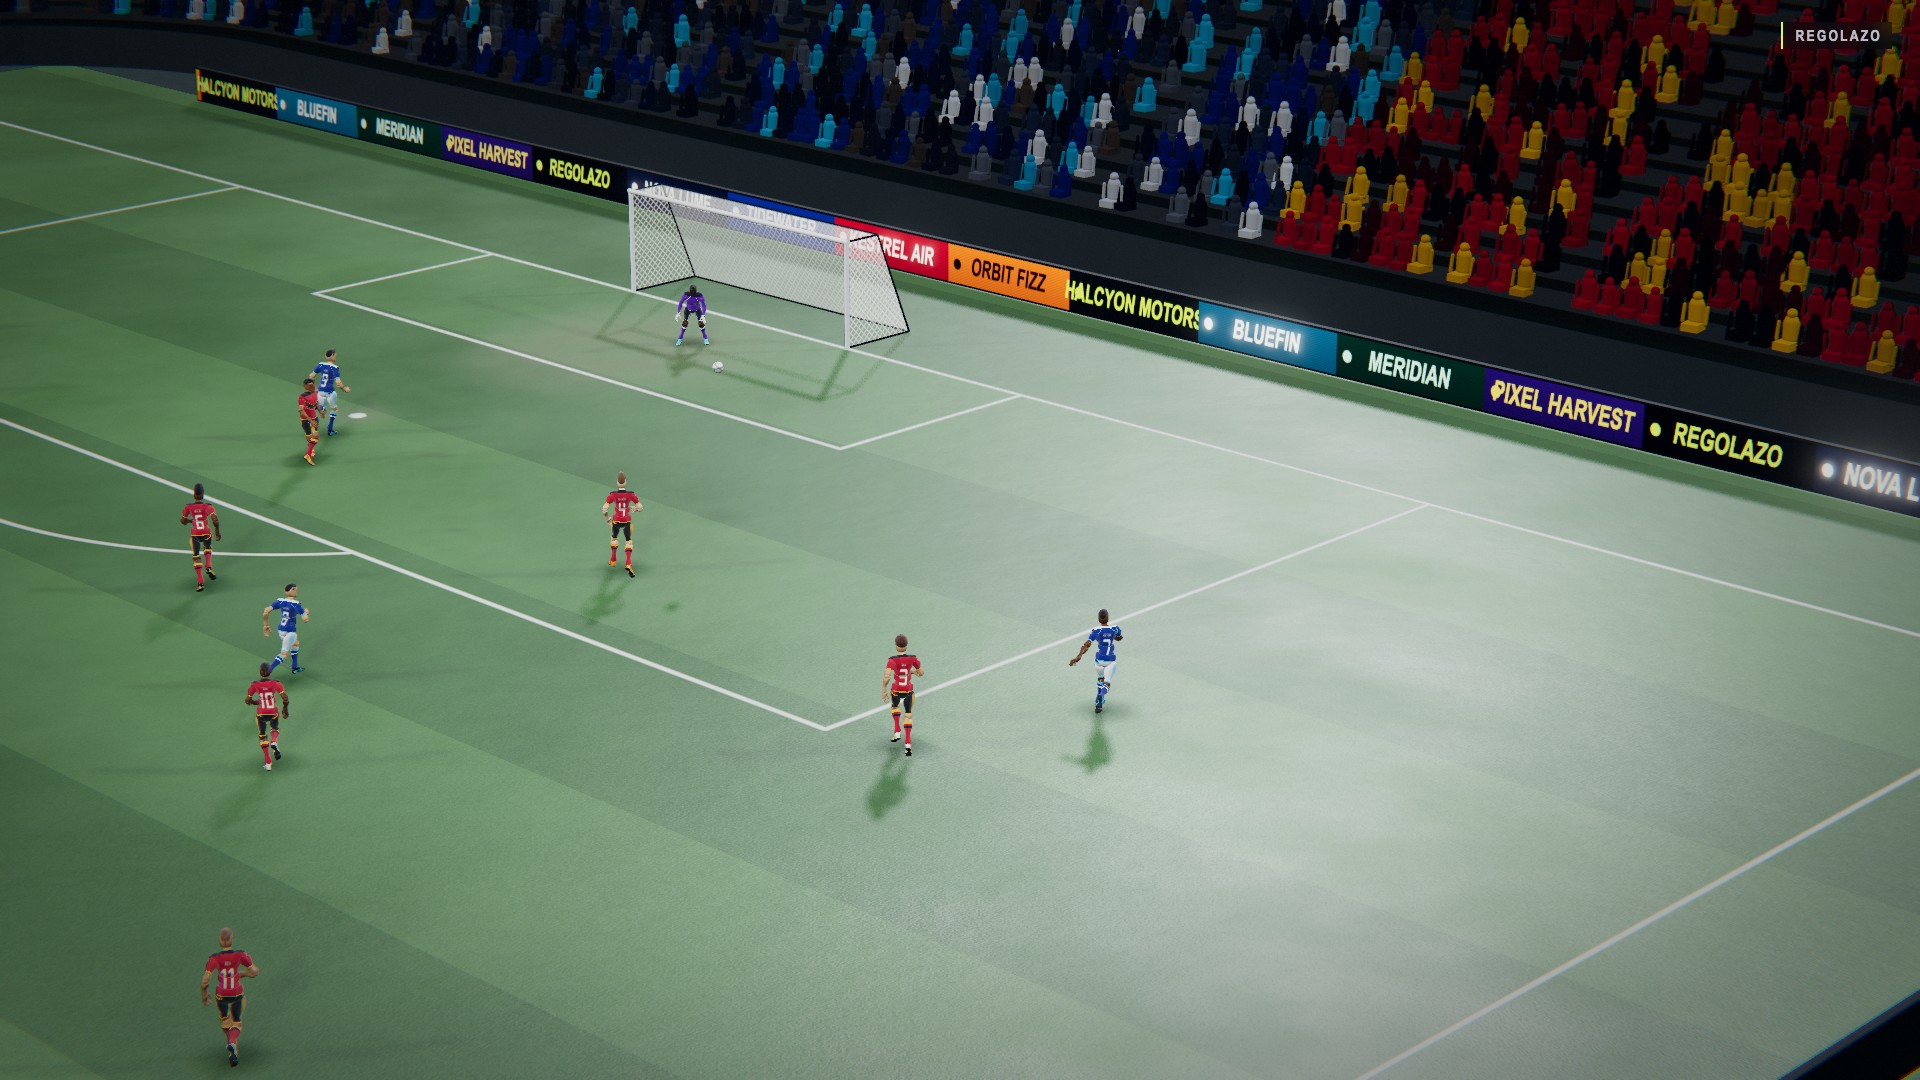
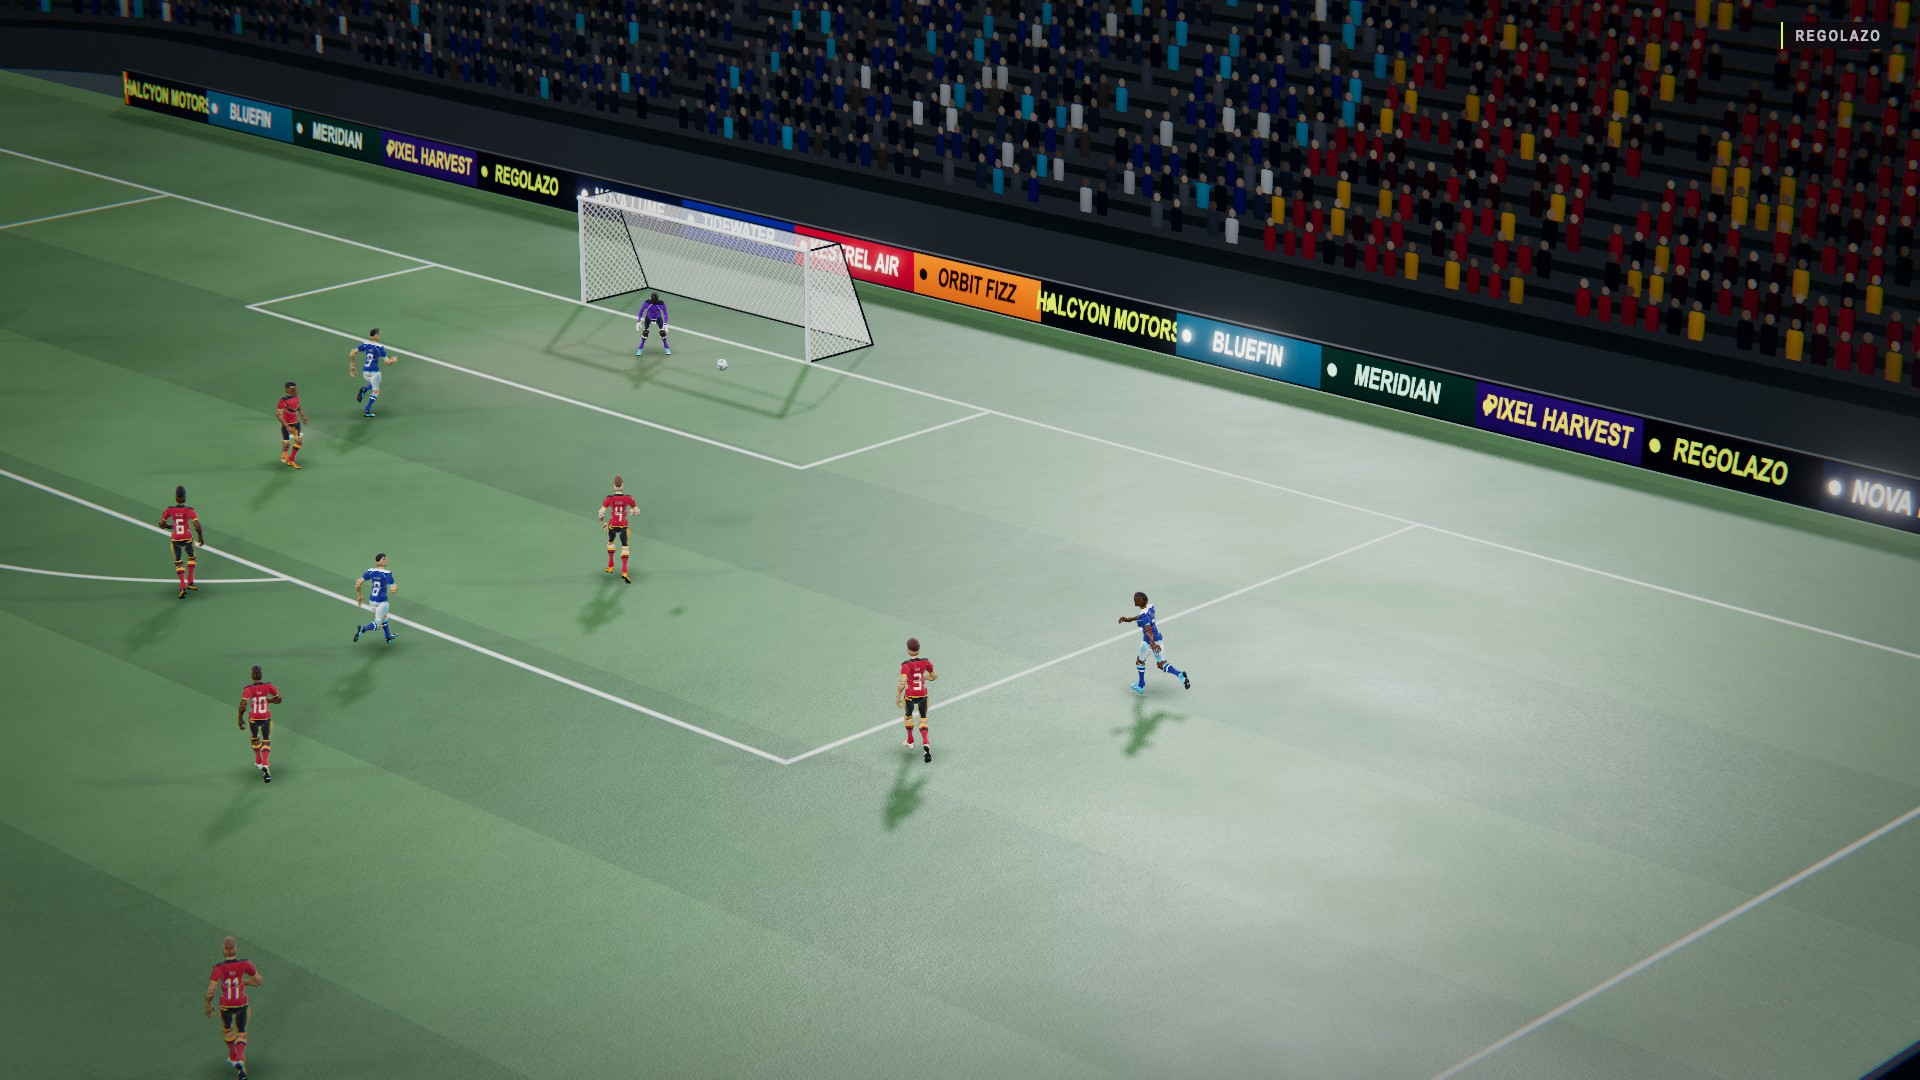
Renderer gate: visual baselines, label projection test, fps (Step 5, milestone 5)
- Playwright 'visual' project: 5 GPU baselines (broadcast x3, tactical, replay), skipped on CI
- scripts/check-labels.ts: K[R|t] reprojection max 0.007 px, box/silhouette IoU mean 0.965
  (p05 0.939), ball and shadow checks 676/676; overlays + report in docs/art/labels/
- fps: 85.6 fps mean headed at 1920x1080 (vsync, 120 Hz display), 96.7 unthrottled
- refreshed reference screenshots; gate results in docs/art_direction.md section 10

diff --git a/web/scripts/check-labels.ts b/web/scripts/check-labels.ts
@@ -1,0 +1,170 @@
+// Label projection test (Step 5 gate). Records the dev clip in-browser and checks, for every frame:
+//  1. calibration: K [R | t] applied to each object's world point (here, in Node) matches the Three.js camera
+//     projection of the same point (computed in the page) -> max reprojection error in pixels;
+//  2. alignment: the box projected from skinned geometry matches the object's GPU silhouette (solo ID pass)
+//     -> IoU for unoccluded objects at least 20 px tall;
+//  3. the ball centre lies inside the ball box; the ball-shadow pixel lies below (or at) the ball centre.
+// Saves overlay images (boxes, centres, ball shadow) to docs/art/labels/ and exits non-zero on failure.
+//   node scripts/check-labels.ts [--every 1] [--overlays 1532.6,1535.0,1536.2,1538.6]
+import { mkdirSync, writeFileSync } from "node:fs";
+import { join } from "node:path";
+import type { CameraCalibration, FrameLabels } from "../src/types.ts";
+import { REPO_ROOT, startHarness } from "./lib/harness.ts";
+
+const args = process.argv.slice(2);
+const opt = (name: string, fallback: string) => {
+  const i = args.indexOf(`--${name}`);
+  return i >= 0 && args[i + 1] !== undefined ? args[i + 1]! : fallback;
+};
+const every = Number(opt("every", "1"));
+const overlayTimes = opt("overlays", "1526.4,1534.6,1536.24,1538.62").split(",").map(Number);
+const outDir = join(REPO_ROOT, "docs/art/labels");
+mkdirSync(outDir, { recursive: true });
+
+function project(cal: CameraCalibration, X: [number, number, number]): [number, number] {
+  const r = cal.extrinsics;
+  const k = cal.intrinsics;
+  const xc = r[0] * X[0] + r[1] * X[1] + r[2] * X[2] + r[3];
+  const yc = r[4] * X[0] + r[5] * X[1] + r[6] * X[2] + r[7];
+  const zc = r[8] * X[0] + r[9] * X[1] + r[10] * X[2] + r[11];
+  return [(k[0] * xc) / zc + k[2], (k[4] * yc) / zc + k[5]];
+}
+
+function iou(a: number[], b: number[]): number {
+  const ix = Math.max(0, Math.min(a[2]!, b[2]!) - Math.max(a[0]!, b[0]!));
+  const iy = Math.max(0, Math.min(a[3]!, b[3]!) - Math.max(a[1]!, b[1]!));
+  const inter = ix * iy;
+  const area = (q: number[]) => (q[2]! - q[0]!) * (q[3]! - q[1]!);
+  return inter / Math.max(1e-6, area(a) + area(b) - inter);
+}
+
+const h = await startHarness();
+let failed: boolean;
+try {
+  const page = await h.open("record=1&w=1920&h=1080");
+  const plan = await page.evaluate(() => window.regolazo!.recorder.start({ fps: 25 }));
+  let maxReproj = 0;
+  let sumReproj = 0;
+  let nReproj = 0;
+  const ious: number[] = [];
+  let ballInside = 0;
+  let ballFrames = 0;
+  let shadowBelow = 0;
+  let shadowFrames = 0;
+  let worst = { iou: 1, frame: -1, track: "" };
+  const wantOverlay = new Set(overlayTimes.map((t) => Math.round((t - plan.start) * plan.fps)));
+  for (let i = 0; i < plan.frames; i++) {
+    const dbg = (i % every === 0) || wantOverlay.has(i);
+    const f = await page.evaluate(([k, d]) => window.regolazo!.recorder.frame(k as number, d as boolean), [i, dbg]);
+    if (!dbg || !f.debug) continue;
+    const L: FrameLabels = f.labels;
+    for (const o of L.objects) {
+      const p = project(L.camera, o.world);
+      const tc = f.debug.threeCenter[o.track_id]!;
+      const e = Math.hypot(p[0] - tc[0], p[1] - tc[1]);
+      const e2 = Math.hypot(p[0] - o.center_px[0], p[1] - o.center_px[1]);
+      maxReproj = Math.max(maxReproj, e, e2);
+      sumReproj += e;
+      nReproj++;
+      const sil = f.debug.silhouette[o.track_id];
+      const hgt = o.box[3] - o.box[1];
+      const inside = o.box[0] > 1 && o.box[2] < L.width - 1 && o.box[1] > 1 && o.box[3] < L.height - 1;
+      if (sil && o.visible_fraction >= 0.95 && hgt >= 20 && inside && o.cls !== "ball") {
+        const v = iou(o.box, sil);
+        ious.push(v);
+        if (v < worst.iou) worst = { iou: v, frame: i, track: o.track_id };
+      }
+      if (o.cls === "ball" && o.visible_fraction > 0) {
+        ballFrames++;
+        const [cx, cy] = o.center_px;
+        if (cx >= o.box[0] - 0.5 && cx <= o.box[2] + 0.5 && cy >= o.box[1] - 0.5 && cy <= o.box[3] + 0.5) ballInside++;
+        if (L.ball_shadow_px) {
+          shadowFrames++;
+          if (L.ball_shadow_px[1] >= cy - 0.5) shadowBelow++;
+        }
+      }
+    }
+    if (wantOverlay.has(i)) {
+      const png = await page.evaluate(
+        async ([img, labels, sil]) => {
+          const L = labels as FrameLabels;
+          const im = new Image();
+          im.src = img as string;
+          await im.decode();
+          const c = document.createElement("canvas");
+          c.width = L.width;
+          c.height = L.height;
+          const ctx = c.getContext("2d")!;
+          ctx.drawImage(im, 0, 0);
+          ctx.font = "600 13px sans-serif";
+          const colors: Record<string, string> = {
+            player_home: "#4cc9f0",
+            player_away: "#ff4d5e",
+            goalkeeper_home: "#2dc653",
+            goalkeeper_away: "#c77dff",
+            referee: "#d7ff3a",
+            ball: "#ffffff",
+          };
+          for (const o of L.objects) {
+            const [x0, y0, x1, y1] = o.box;
+            ctx.strokeStyle = colors[o.cls] ?? "#fff";
+            ctx.lineWidth = 2;
+            ctx.strokeRect(x0, y0, x1 - x0, y1 - y0);
+            const s = (sil as Record<string, number[] | null>)[o.track_id];
+            if (s) {
+              ctx.strokeStyle = "rgba(255,255,255,0.55)";
+              ctx.lineWidth = 1;
+              ctx.setLineDash([3, 3]);
+              ctx.strokeRect(s[0]!, s[1]!, s[2]! - s[0]!, s[3]! - s[1]!);
+              ctx.setLineDash([]);
+            }
+            ctx.fillStyle = "#ff7a1a";
+            ctx.beginPath();
+            ctx.arc(o.center_px[0], o.center_px[1], 3, 0, Math.PI * 2);
+            ctx.fill();
+            ctx.fillStyle = colors[o.cls] ?? "#fff";
+            ctx.fillText(`${o.track_id} ${o.visible_fraction.toFixed(2)}`, x0, y0 - 4);
+          }
+          if (L.ball_shadow_px) {
+            ctx.strokeStyle = "#ff7a1a";
+            ctx.lineWidth = 2;
+            const [sx, sy] = L.ball_shadow_px;
+            ctx.beginPath();
+            ctx.moveTo(sx - 7, sy);
+            ctx.lineTo(sx + 7, sy);
+            ctx.moveTo(sx, sy - 7);
+            ctx.lineTo(sx, sy + 7);
+            ctx.stroke();
+          }
+          ctx.fillStyle = "rgba(5,7,13,0.75)";
+          ctx.fillRect(0, L.height - 34, 760, 34);
+          ctx.fillStyle = "#e8ecf4";
+          ctx.font = "600 15px sans-serif";
+          ctx.fillText(`frame ${L.frame}  t=${L.t.toFixed(2)}  tick ${L.tick}  solid: projected box · dashed: GPU silhouette · dot: centre_px · cross: ball shadow`, 12, L.height - 12);
+          return c.toDataURL("image/jpeg", 0.9);
+        },
+        [f.image, f.labels, f.debug.silhouette],
+      );
+      const file = join(outDir, `labels_frame_${String(i).padStart(4, "0")}.jpg`);
+      writeFileSync(file, Buffer.from(png.slice(png.indexOf(",") + 1), "base64"));
+      console.log(`overlay ${file}`);
+    }
+  }
+  ious.sort((a, b) => a - b);
+  const meanIou = ious.reduce((a, b) => a + b, 0) / Math.max(1, ious.length);
+  const report = {
+    frames: plan.frames,
+    objects_checked: nReproj,
+    reprojection_px: { mean: +(sumReproj / Math.max(1, nReproj)).toFixed(4), max: +maxReproj.toFixed(4) },
+    silhouette_iou: { n: ious.length, mean: +meanIou.toFixed(4), p05: +(ious[Math.floor(ious.length * 0.05)] ?? 0).toFixed(4), min: +(ious[0] ?? 0).toFixed(4), worst },
+    ball_center_in_box: `${ballInside}/${ballFrames}`,
+    ball_shadow_below_ball: `${shadowBelow}/${shadowFrames}`,
+  };
+  console.log(JSON.stringify(report, null, 2));
+  writeFileSync(join(outDir, "report.json"), JSON.stringify(report, null, 2) + "\n");
+  failed = maxReproj > 0.5 || meanIou < 0.85 || (ious[Math.floor(ious.length * 0.05)] ?? 0) < 0.7 || ballInside !== ballFrames || shadowBelow !== shadowFrames;
+  console.log(failed ? "LABEL CHECK FAILED" : "LABEL CHECK PASSED");
+} finally {
+  await h.close();
+}
+process.exit(failed ? 1 : 0);

diff --git a/web/e2e/visual.spec.ts b/web/e2e/visual.spec.ts
@@ -1,0 +1,31 @@
+// Visual regression: the dev clip at fixed match times and cameras, compared with approved baselines
+// (e2e/__screenshots__/, rendered on the M3 Pro GPU). Update after an approved art change with:
+//   npx playwright test --project visual --update-snapshots
+import { expect, test } from "@playwright/test";
+
+test.skip(!!process.env.CI, "baselines are GPU renders; CI has only SwiftShader");
+
+const T0 = 1520;
+const SHOTS: { name: string; t: number; cam: "broadcast" | "tactical" | "replay"; target?: string }[] = [
+  { name: "broadcast-buildup", t: T0 + 6.4, cam: "broadcast" },
+  { name: "broadcast-wing", t: T0 + 13.0, cam: "broadcast" },
+  { name: "broadcast-header", t: T0 + 16.24, cam: "broadcast" },
+  { name: "tactical", t: T0 + 11.5, cam: "tactical" },
+  { name: "replay-finish", t: T0 + 18.4, cam: "replay", target: "H08" },
+];
+
+for (const s of SHOTS) {
+  test(`frame ${s.name}`, async ({ page }) => {
+    await page.goto("/?w=1280&h=720&paused=1");
+    await page.waitForFunction(() => document.body.dataset.ready === "1", null, { timeout: 90_000 });
+    const info = await page.evaluate((shot) => {
+      const r = window.regolazo!;
+      r.setClean(true);
+      r.setCamera(shot.cam, shot.target ?? null);
+      r.jumpTo(shot.t, 2.5);
+      return r.info();
+    }, s);
+    expect(info.renderer).not.toContain("SwiftShader");
+    await expect(page.locator("#stage")).toHaveScreenshot(`${s.name}.png`);
+  });
+}

diff --git a/web/playwright.config.ts b/web/playwright.config.ts
@@ -1,14 +1,29 @@
 import { defineConfig, devices } from "@playwright/test";
 
+// Visual baselines are rendered on the real GPU (ANGLE/Metal on the M3 Pro). They are skipped on CI, where Chromium
+// falls back to SwiftShader and the images would differ (see e2e/visual.spec.ts).
+const gpuArgs =
+  process.platform === "darwin" ? ["--use-angle=metal", "--enable-gpu", "--ignore-gpu-blocklist"] : ["--ignore-gpu-blocklist"];
+
 export default defineConfig({
   testDir: "e2e",
   fullyParallel: true,
   reporter: process.env.CI ? "github" : "list",
   use: { baseURL: "http://localhost:4173" },
+  timeout: 120_000,
+  expect: { toHaveScreenshot: { maxDiffPixelRatio: 0.01, threshold: 0.15 } },
+  snapshotPathTemplate: "{testDir}/__screenshots__/{testFilePath}/{arg}-{platform}{ext}",
   webServer: {
     command: "npm run build && npm run preview -- --port 4173 --strictPort",
     port: 4173,
     reuseExistingServer: !process.env.CI,
   },
-  projects: [{ name: "chromium", use: { ...devices["Desktop Chrome"] } }],
+  projects: [
+    { name: "chromium", testIgnore: /visual\.spec\.ts/, use: { ...devices["Desktop Chrome"] } },
+    {
+      name: "visual",
+      testMatch: /visual\.spec\.ts/,
+      use: { ...devices["Desktop Chrome"], viewport: { width: 1280, height: 720 }, deviceScaleFactor: 1, launchOptions: { args: gpuArgs } },
+    },
+  ],
 });

diff --git a/docs/art_direction.md b/docs/art_direction.md
@@ -121,3 +121,23 @@ Transitions between cameras are eased blends of position, orientation and field 
 | `ref_replay_goal.jpg` | Replay camera (depth of field) on the finish: name and number on the back, slide tackle, keeper |
 | `ref_replay_celebration.jpg` | Replay camera on the celebration |
 | `ref_stadium_night.jpg` | The bowl: roof floodlight ring, tiers, hospitality glass, LED fascia |
+
+## 10. Renderer tooling and gate results (Step 5)
+
+All commands run in `web/`.
+
+| Command | What it does |
+|---|---|
+| `npm run assets` | Rebuilds `public/assets/athlete.glb` + `athlete_clips.json` from the raw Mixamo FBX files (gitignored) |
+| `npm run dev-clip` | Rebuilds the scripted dev clip `public/dev/clip_demo.json` |
+| `npm run art` | Reference screenshots to `docs/art/` |
+| `node scripts/record.ts` | Recording mode: frames + one `FrameLabels` JSON per frame to `$REGOLAZO_DATA_DIR/renders/<match>-<clip>/` |
+| `node scripts/check-labels.ts` | Label projection test; overlays and `report.json` to `docs/art/labels/` |
+| `node scripts/fps.ts [--unthrottled]` | Frame-rate check of the live view (headed Chromium, 1920 x 1080 viewport) |
+| `npx playwright test --project visual` | Visual regression against `e2e/__screenshots__/` (GPU baselines, skipped on CI) |
+
+Measured on the M3 Pro (ANGLE Metal), 2026-10-26:
+
+- **Frame rate, live view at 1920 x 1080** (dev clip playing, broadcast camera, 2x MSAA, four 2048 shadow maps, bloom, ~30k crowd cards): 85.6 fps mean with vsync on the 120 Hz display (p50 8.4 ms, p95 17.0 ms, p99 17.6 ms over 15 s); 96.7 fps mean with vsync off (p95 12.3 ms). Fixed-size renders (recording, screenshots) use 4x MSAA.
+- **Labels** (676 frames, 8,763 objects): `K [R | t]` reprojection vs the Three.js camera, max 0.007 px; projected box vs GPU silhouette IoU mean 0.965, 5th percentile 0.939, min 0.860 (unoccluded objects at least 20 px tall); ball centre inside its box and ball-shadow pixel at or below the ball in 676 / 676 frames. All 676 label files validate with `FrameLabels.model_validate_json`. Two recordings give identical labels (same SHA-256).
+- **Visual tests**: 5 baselines (broadcast x 3, tactical, replay). A 0.2 s time shift changes 7 % of pixels and fails the test; the tolerance is 1 %.
